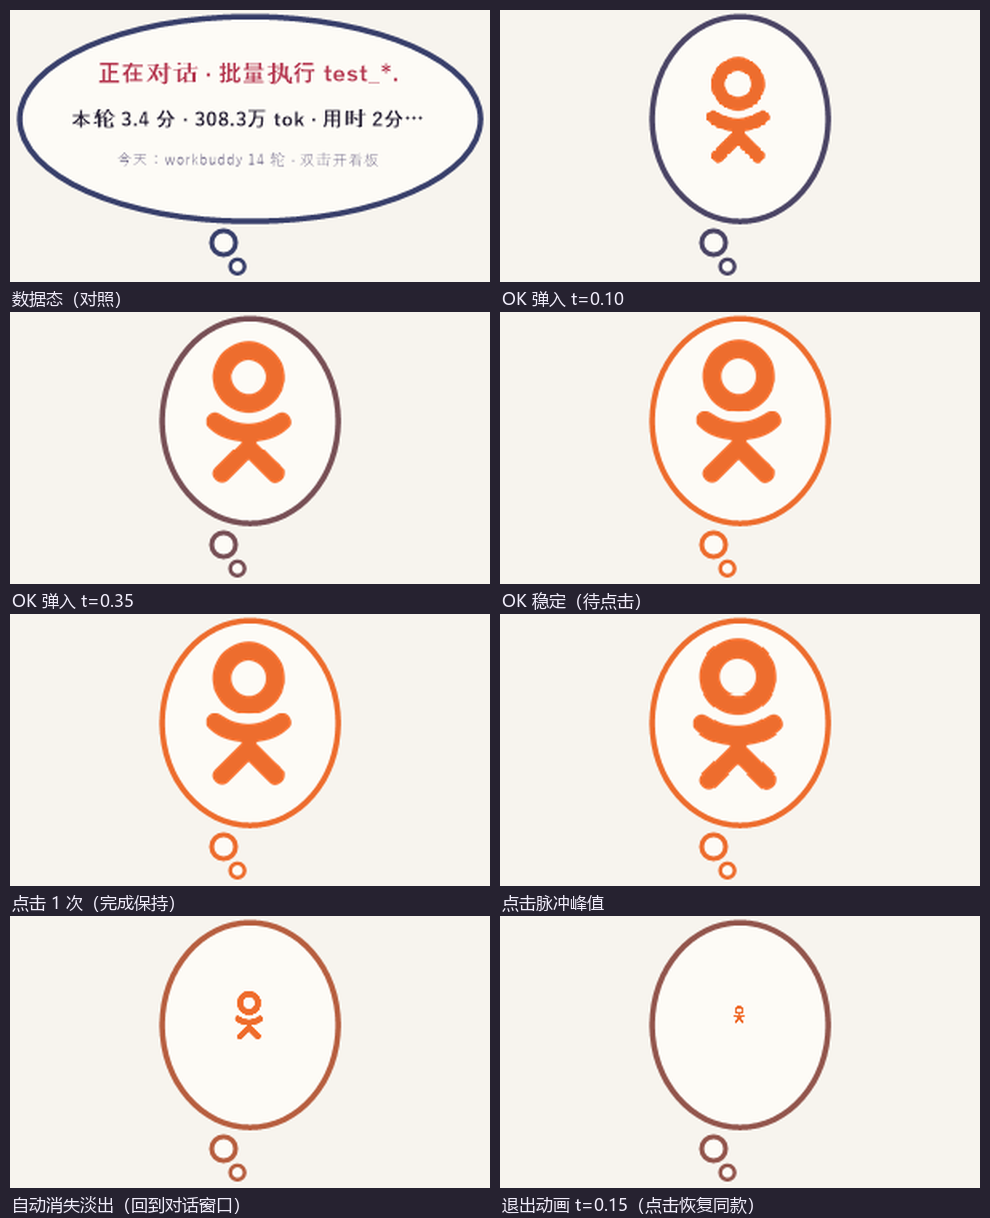
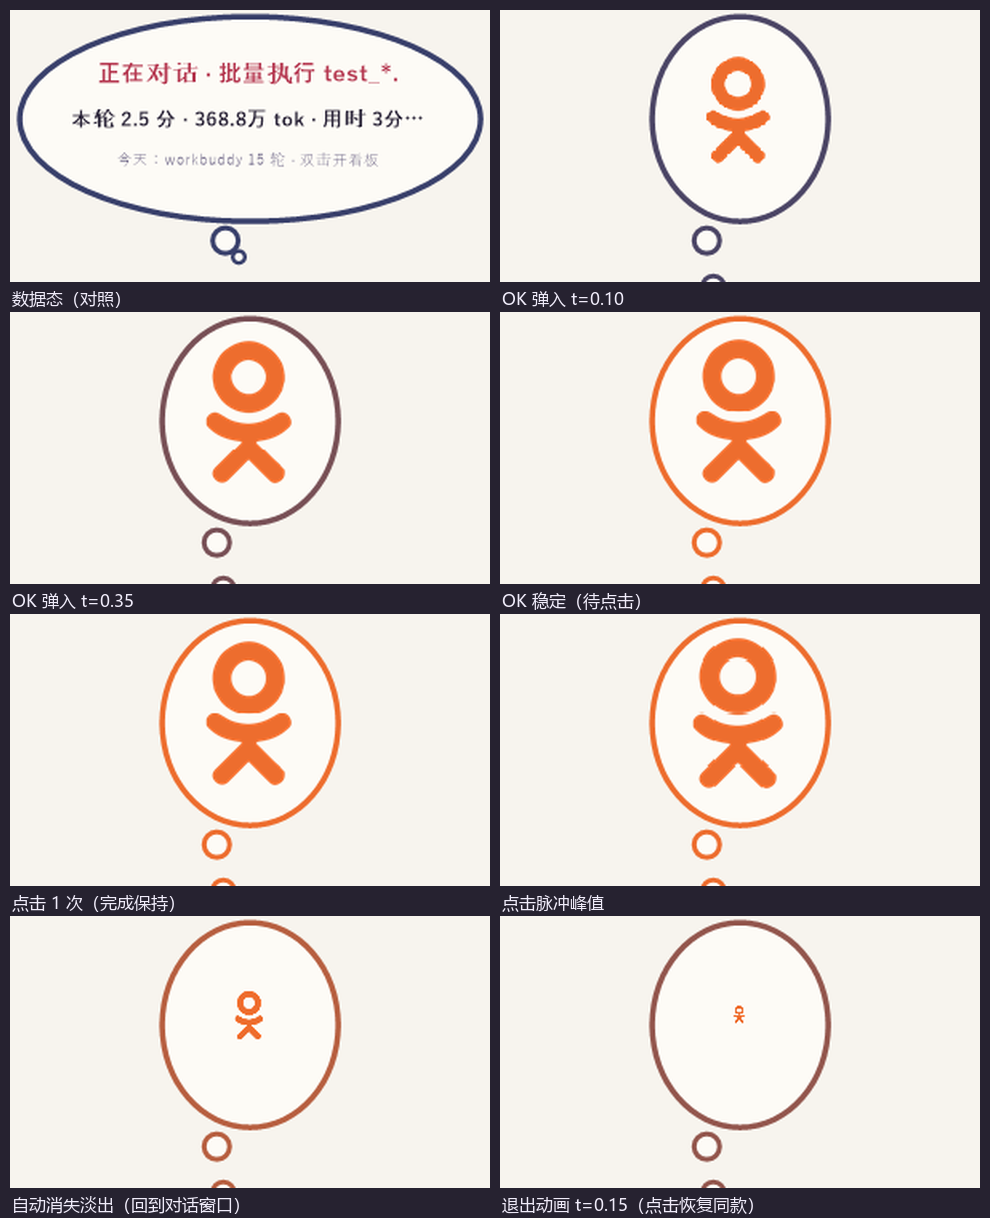
fix(pet): 想法泡泡与桌宠的连接空隙 —— 小圆终点改为锚定立绘实际内容顶
用户反馈「想法泡泡与桌宠连接空隙太大」。

根因（比表面严重）：`_draw_thought_circles()` 把连线终点**写死**成
`lay["bubble_h"] + 5*sc`，等于假设「头发顶正好在气泡区下沿」。但 v3 各态共用同一张
画布（1167×1570），**上方留白差别极大**，实际内容顶的归一化位置：

    happy 0.041 / joy 0.120 / pout 0.313 / shy 0.353 / idle 0.355 / blush 0.416 / stone 0.489

换算到屏幕（scale=1.0，立绘矩形 y=166..500）即头上沿在 180~329 之间浮动，
而旧公式一律按 167 画 —— **偏差 13~162px**。所以 head 偏低的态
（pout/shy/idle/blush/stone，正是空闲时最常出现的 idle）空隙大得离谱。

改动（`wb_whale_win.py`）：
1. 新增 `_sprite_content_top(lay)`：取**当前态**的实际内容顶
   （用 `_spr_rect` + `_spr_cbox[state][1] * spr_h`，兜底钳制防首帧越界）。
   `_draw_bubble` 比 `_draw_pet` 先跑，读的是上一帧记录（1 帧 = 66ms，肉眼无感）。
2. `_draw_thought_circles()` 重写布点：
   - 终点 = 实际内容顶上方 4px（末颗小圆恰好贴住头顶）
   - 起点 = 气泡下沿 + 大圆半径（首颗贴住气泡）
   - **颗数随跨度自适应**：跨度 <34px 维持原「两颗」的精致感；
     否则按 ~30px 步距补足（上限 6 颗）—— 跨度大不再只飘两颗
   - 半径 8.0→3.8px、描边 3.0→2.4px 线性插值（近气泡大、近头顶小，方向不变）

验证：
- 数值：8 个状态逐个核验，末颗小圆下沿到头发顶**恒为 4px**
  （改前为 13~162px）；颗数 2~6 自适应
- 视觉：真实桌宠前后对比截图（同一状态、同一窗口位置）——
  改前小圆飘在半空离头发一大截，改后最小的圆刚好落在头发顶
- 12 个回归测试全 PASS

diff --git a/app/wb_whale_win.py b/app/wb_whale_win.py
@@ -3076,11 +3076,38 @@ class WhalePet:
         self._draw_accessories(s, lay, now)
         s.present(self.hwnd)
 
+    def _sprite_content_top(self, lay):
+        """当前立绘**实际内容顶**的屏幕 y（拿不到就退回「气泡区下沿」）。
+
+        为什么必须动态取：v3 各态共用同一张画布（1167×1570），但**上方留白差别极大** ——
+        内容顶归一化位置 happy 0.041 / joy 0.120 / idle 0.355 / stone 0.489。
+        早期把想法小圆的终点写死在 `lay["bubble_h"]`（等于假设"头发顶正好在气泡区下沿"），
+        于是头顶偏低的态（pout/shy/idle/blush/stone）小圆与头顶之间会空出一大截
+        —— 正是用户反馈的「想法泡泡与桌宠连接空隙太大」（实测相差 18~167px）。
+
+        直接用 `_spr_rect`/`_spr_key` 即可：`_draw_bubble` 比 `_draw_pet` 先跑，
+        这里读到的是**上一帧**记录的立绘矩形（1 帧 = 66ms，肉眼无感）。
+        """
+        rect = getattr(self, "_spr_rect", None)
+        key = getattr(self, "_spr_key", None)
+        if rect and key:
+            cbox = getattr(self, "_spr_cbox", {}).get(key[0])
+            if cbox:
+                top = rect[1] + cbox[1] * rect[3]
+                sc = lay["sc"]
+                # 兜底钳制：首帧 / 极端缩放时别让连线缩进气泡里或跑出窗口
+                return min(max(top, lay["bubble_h"] + 6 * sc), lay["H"] - 24 * sc)
+        return lay["bubble_h"]
+
     def _draw_thought_circles(self, s, lay, line_argb):
-        """想法小圆：沿「主气泡底部 → 立绘头顶」对角线由大到小排列。
+        """想法小圆：沿「主气泡底部 → 立绘头顶」由大到小排列。
 
         漫画思考泡惯例：圆从大到小指向源头，给眼睛一条"从头顶冒出"的引导线。
         数据态与 OK 态共用同一套几何，只换描边色 —— 形态切换时小圆不跳位。
+
+        终点锚在**当前态立绘的实际内容顶**（见 `_sprite_content_top`，各态可差 150px），
+        并让颗数随跨度自适应：**首颗贴住气泡下沿、末颗贴住头顶**，
+        跨度大就按 ~30px 步距多排几颗 —— 不再出现"小圆飘在半空、离头一大截"。
         """
         sc = lay["sc"]
         W = lay["W"]
@@ -3088,16 +3115,23 @@ class WhalePet:
         p0x = W / 2 - 22 * sc                       # 起点：主气泡底偏左
         p0y = by + bh + 4 * sc                      # 距主气泡下沿 4px
         p1x = W / 2 - 4 * sc                        # 终点：头顶偏中
-        p1y = lay["bubble_h"] + 5 * sc              # 立绘头发最上沿上方 5px
-        c1r, c2r = 7.5 * sc, 4.5 * sc               # 大→小，靠近主气泡的更大
-        c1x = p0x + (p1x - p0x) * 0.30              # 30% 处（近主气泡端）
-        c1y = p0y + (p1y - p0y) * 0.30
-        c2x = p0x + (p1x - p0x) * 0.78              # 78% 处（近头顶端，最小）
-        c2y = p0y + (p1y - p0y) * 0.78
-        s.ellipse(C_BUBBLE, c1x - c1r, c1y - c1r, c1r * 2, c1r * 2,
-                  line_argb=line_argb, line_w=3.0 * sc)
-        s.ellipse(C_BUBBLE, c2x - c2r, c2y - c2r, c2r * 2, c2r * 2,
-                  line_argb=line_argb, line_w=2.4 * sc)
+        p1y = self._sprite_content_top(lay) - 4 * sc    # 立绘实际内容顶上方 4px
+
+        r_big, r_sml = 8.0 * sc, 3.8 * sc           # 大→小：近气泡的大、近头顶的小
+        y0 = p0y + r_big                            # 首颗圆心：贴着气泡下沿
+        y1 = p1y - r_sml                            # 末颗圆心：贴着头发顶
+        if y1 - y0 < 8 * sc:                        # 极端贴近时留一点间距，防两颗重合
+            y1 = y0 + 8 * sc
+        usable = y1 - y0
+        n = 2 if usable < 34 * sc else min(6, int(round(usable / (30.0 * sc))) + 1)
+        span = max(1.0, p1y - p0y)
+        for i in range(n):
+            t = i / (n - 1)
+            y = y0 + usable * t
+            x = p0x + (p1x - p0x) * ((y - p0y) / span)
+            r = r_big + (r_sml - r_big) * t
+            s.ellipse(C_BUBBLE, x - r, y - r, r * 2, r * 2,
+                      line_argb=line_argb, line_w=(3.0 - 0.6 * t) * sc)
 
     def _draw_bubble(self, s, lay, now):
         """气泡分形态绘制：OK 态走 _draw_bubble_ok，其余走数据态三行文案。"""
